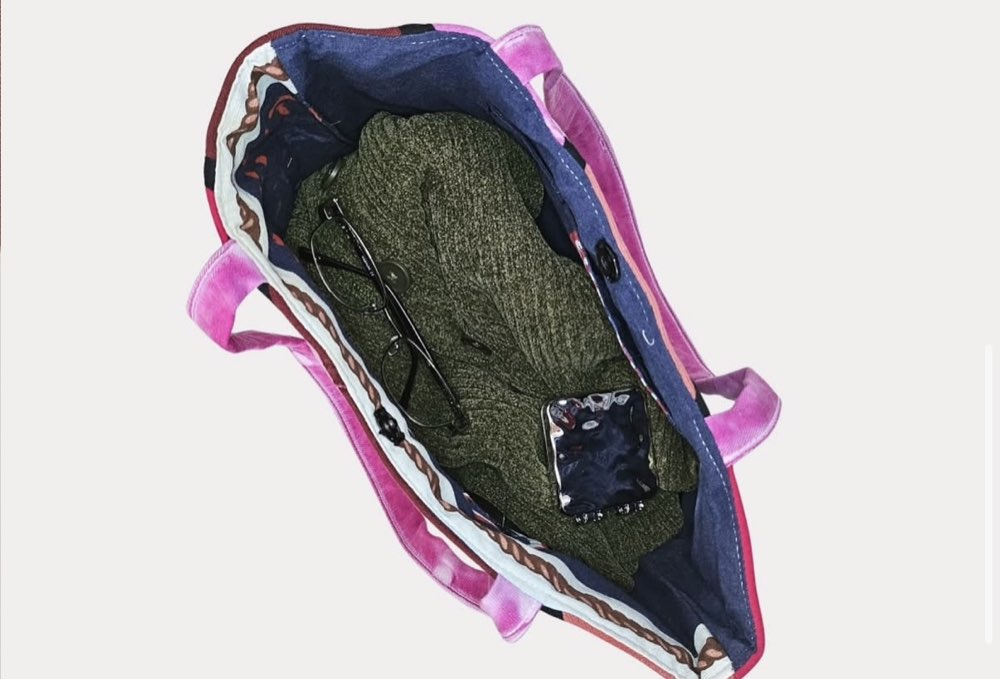
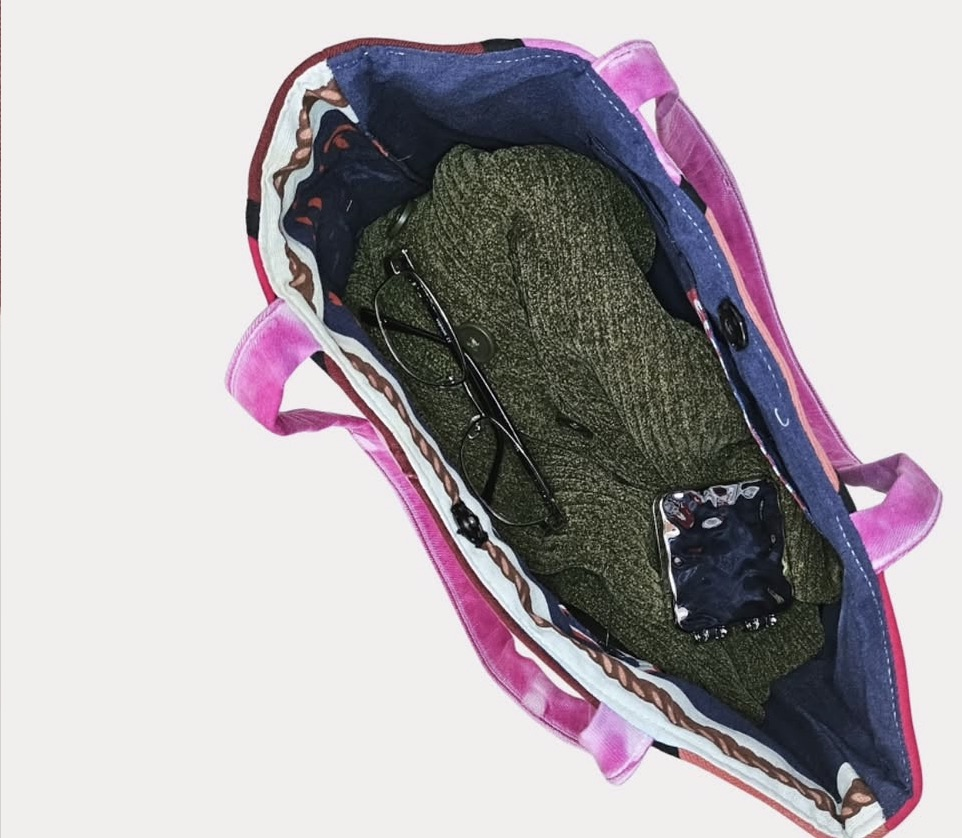
Sharpen the extracted photos and drop the redundant ones
The interior shots were the blurry ones. The cause was in the extraction:
the crop kept a wide white margin around the bag, and the result was then
upscaled to 1000px, so few real pixels were being stretched over a lot of
frame. Patchwork's bag filled only 58% of its crop.

Re-cropped tight to the bag, at native resolution with no upscaling, and
compressed more gently. Measured by Laplacian variance, the interiors
improved roughly two-fold: Buton 466 to 1190, Patchwork 331 to 810,
Nuanțe de gri 366 to 621.

Compared every photo of a bag against the others by perceptual hash and
removed the two that were both near-identical to a photo already kept and
soft: Buton's angled view and the Nuanțe de gri repeat of the outside
shot. 19 photos down to 17, all distinct.

diff --git a/index.html b/index.html
@@ -29,7 +29,7 @@
 <link rel="preload" as="font" type="font/woff2" href="assets/fonts/jost-300-latin.woff2" crossorigin>
 <link rel="preload" as="font" type="font/woff2" href="assets/fonts/cormorant-garamond-400-latin.woff2" crossorigin>
 <link rel="stylesheet" href="assets/css/fonts.css">
-<link rel="stylesheet" href="assets/css/styles.css?v=5">
+<link rel="stylesheet" href="assets/css/styles.css?v=6">
 </head>
 <body>
 
@@ -258,7 +258,7 @@
   </div>
 </div>
 
-<script src="assets/js/products.js?v=5"></script>
-<script src="assets/js/app.js?v=5"></script>
+<script src="assets/js/products.js?v=6"></script>
+<script src="assets/js/app.js?v=6"></script>
 </body>
 </html>

diff --git a/assets/js/products.js b/assets/js/products.js
@@ -23,7 +23,7 @@ const PRODUCTS = [
   {
     id: 'buton',
     name: 'Buton',
-    photos: 3,
+    photos: 2,
     dims: { h: 28, w: 31, d: 9 },
     madeFrom: 6,
     tint: 'denim',
@@ -119,7 +119,7 @@ const PRODUCTS = [
   {
     id: 'nuante-de-gri',
     name: 'Nuanțe de gri',
-    photos: 4,
+    photos: 3,
     dims: { h: 35, w: 45, d: 15 },
     madeFrom: 3,
     tint: 'grey',
